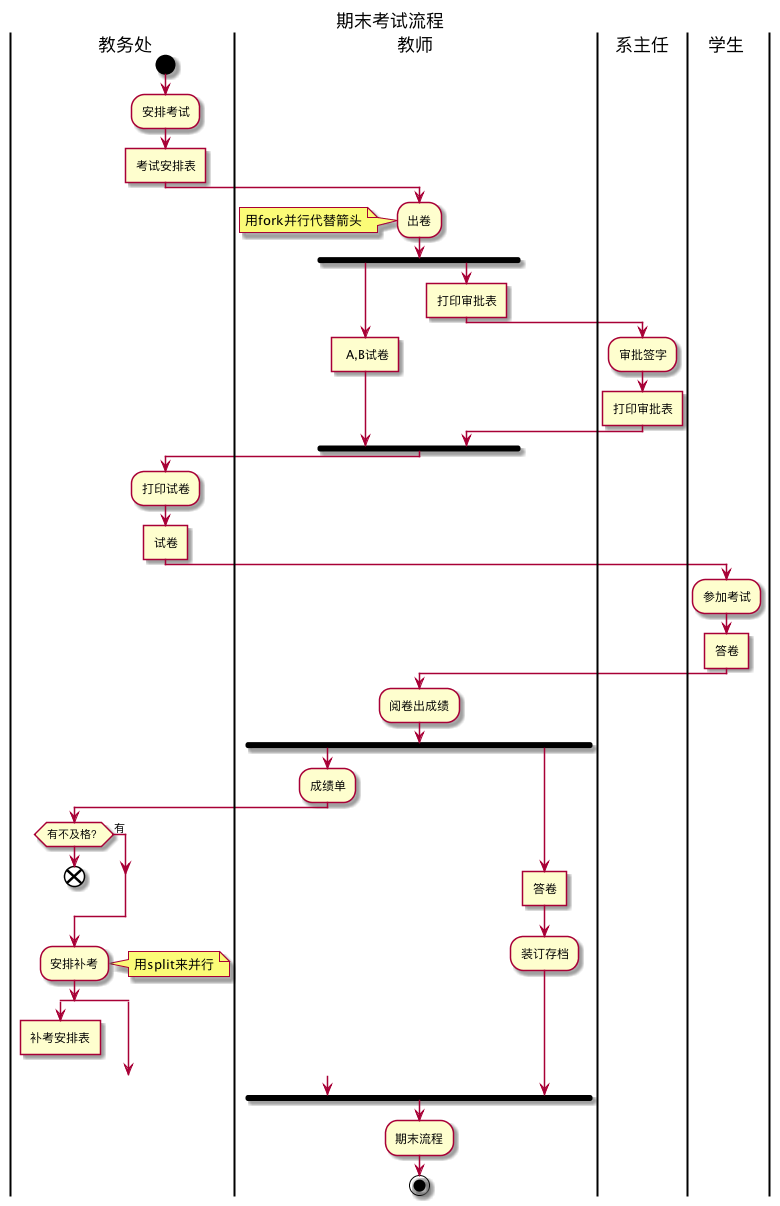
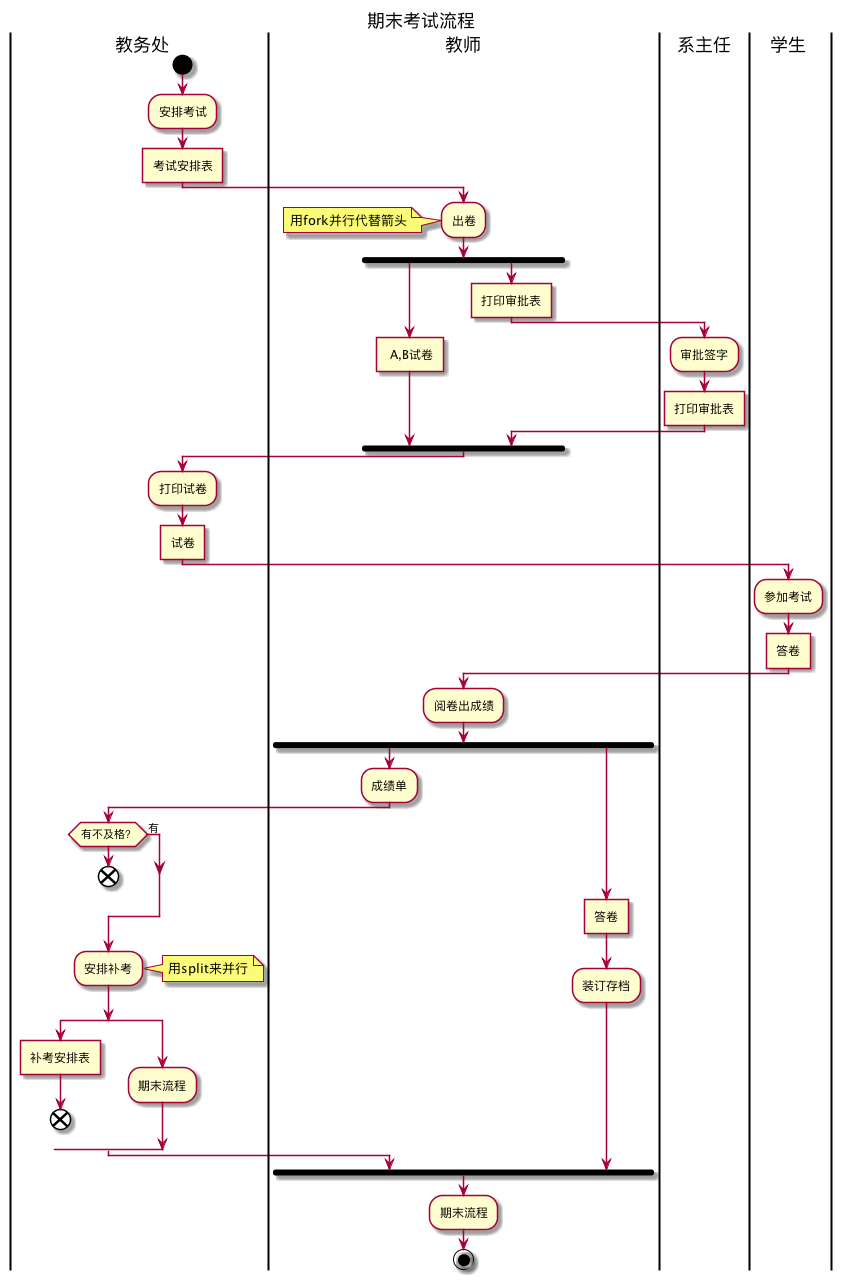
hhh

Changed region(s): [[0.0, 0.0307, 1.0, 1.0], [0.4308, 0.0, 0.5846, 0.0614]]

diff --git a/test1/README.md b/test1/README.md
@@ -1,9 +1,10 @@
 # flow1:Page107图6.1---考试及成绩管理流程:
-## 1.UML语句:
+### 1.UML语句:
 ```
 @startuml
 title 期末考试流程
 |教务处|
+start
 :安排考试;
 :考试安排表]
 |教师|
@@ -28,6 +29,7 @@ endfork
 |教师|
 :阅卷出成绩;
 fork
+|教师|
 :成绩单;
 |教务处|
 if(有不及格？)then(有)
@@ -40,8 +42,9 @@ note right
 end note
 split
 :补考安排表]
-detach
+end
 split again
+:期末流程;
 split end
 fork again
 |教师|
@@ -52,6 +55,53 @@ fork end
 stop
 @enduml
 ```
-### 说明：
+### 2.说明：
 教务处安排考试，发出考试安排表给教师，教师进行出卷，打印A，B试卷和审批表（这一部分使用fork并行来代替split）
-审批表交给系主任签字，再次打印审批表，然后教务处打印试卷，试卷发放给学生进行考试，学生答完
+审批表交给系主任签字，再次打印审批表，然后教务处打印试卷，试卷发放给学生进行考试，学生答完后由教师阅卷出成绩(用并行语句实现)成绩单交给教务处，若有不合格学生则安排补考(这一部分由split语句完成)发放补考安排表，合格的学生直接装订存档，结束期末流程。
+### 3.显示结果：
+
+# flow2:Page108图6.2---客户维修服务流程:
+### 1.UML语句:
+```
+@startuml
+|客户|
+start
+:申请服务;
+|业务经理|
+if(是新客户吗？)then(是)
+note left
+if条件语句
+end note
+:登记客户信息;
+else(不是)
+endif
+:上门勘察;
+:制定方案;
+|客户|
+if(满意吗？)then(是)
+else
+end
+endif
+:签订服务合同;
+|业务经理|
+fork
+:安排工人;
+fork again 
+:安排材料;
+fork end
+:填写派工单;
+|工人|
+:领取材料;
+:上门服务;
+|客户|
+:验收并填写反馈意见;
+|业务经理|
+:交给派工单;
+|财务人员|
+:结算收款;
+stop
+```
+### 2.说明：
+客户申请维修服务，然后业务经理查看是否是新客户(用if语句编写)，是新客户则登记客户信息，进行上门勘察，制定方针，若客户满意则签订服务合同，然后业务经理安排工人和材料并填写派工单(使用fork)，工人领取材料然后上门服务，客户进行验收和提交反馈意见，并交给业务经理，最后业务经理把派工单交给财务人员，流程结束
+### 3.显示结果
+
